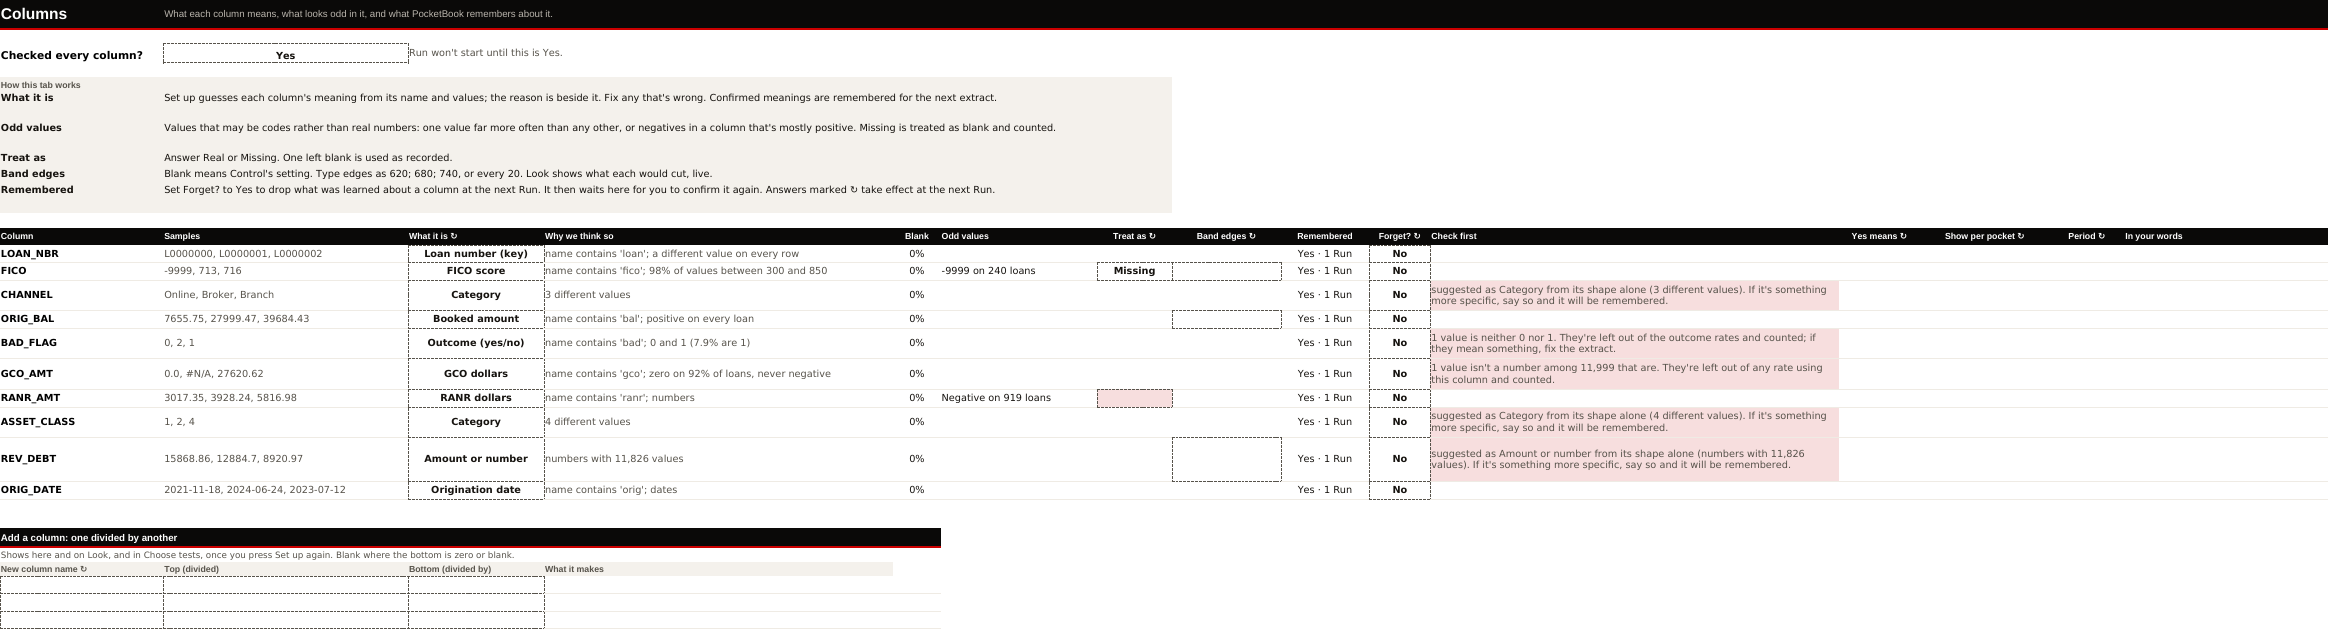
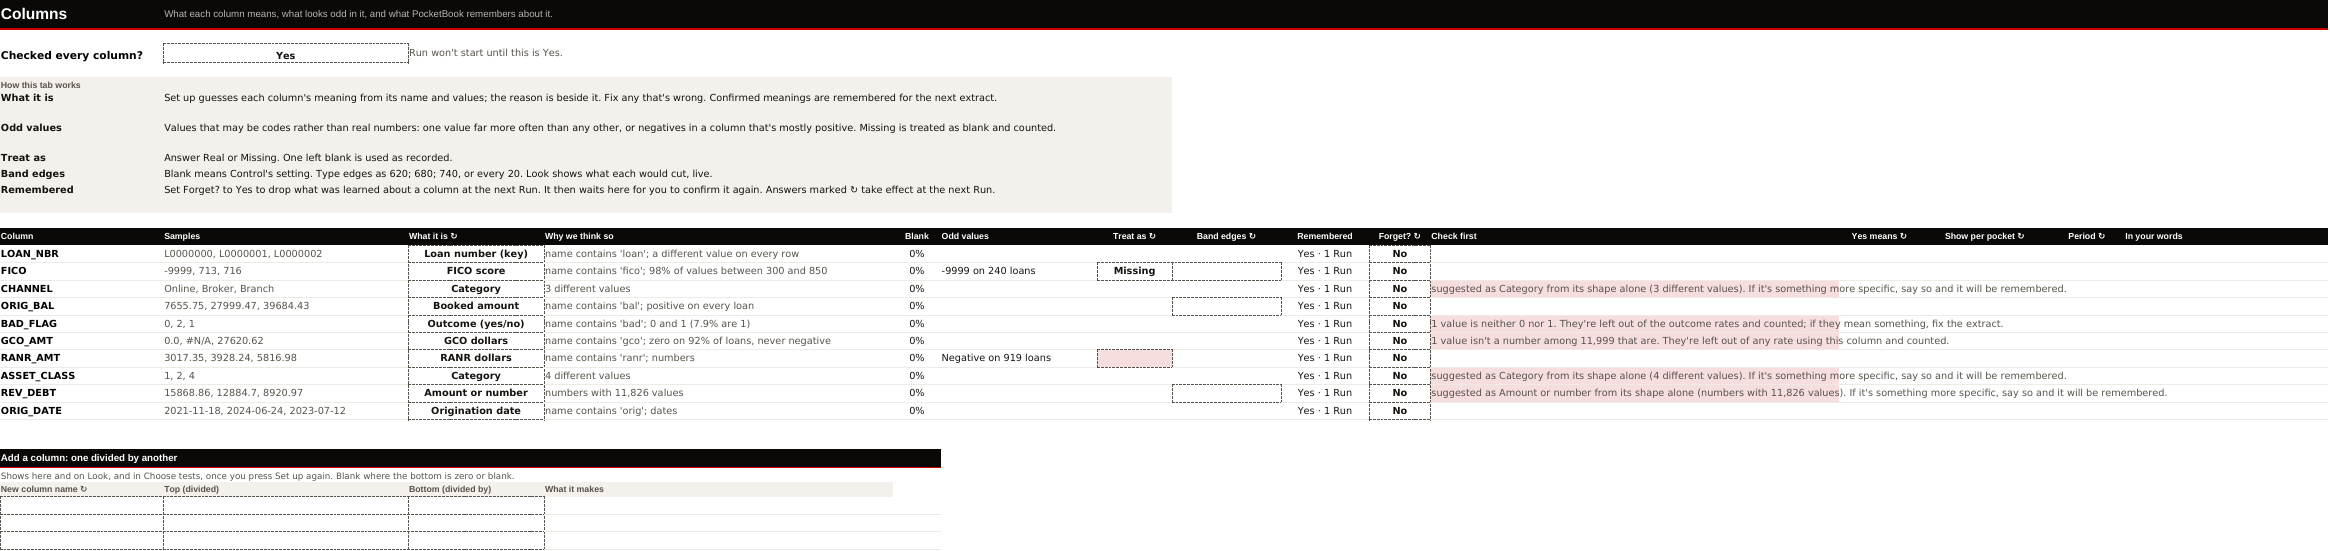
PocketBook widths: Check first stays one line (rule 5, held by a test); three planted bugs repointed
Claude-Session: https://claude.ai/code/session_013ubcYYNQUd93Rpy8MGvQAz

Changed region(s): [[0.0, 0.0, 1.0, 1.0]]

diff --git a/pocketbook/tools/mutation_check.py b/pocketbook/tools/mutation_check.py
@@ -238,8 +238,8 @@ muts = [
   '        elif made is None and False:\n            problems.append', "made_on_control"),
  ("Look loses the new column at Run", B, '        look.refresh(wb, res.table or table, split_col',
   '        look.refresh(wb, table, split_col', "made_on_control or periods_and_meanings"),
- ("new column samples to seventeen figures", B, '            samples = [f"{float(v):.4g}" for v in samples]',
-  '            pass', "made_on_control"),
+ ("new column samples to seventeen figures", B, '        samples = [f"{float(v):.4g}" for v in samples]',
+  '        pass', "made_on_control"),
  ("period on Columns not recorded", B, '                entry["period"] = PERIOD_OPTIONS[str(per).strip()]',
   '                pass', "periods_and_meanings"),
  ("ratio plant missing", "src/pocketbook/synth.py",
@@ -351,7 +351,7 @@ muts = [
   "no_edges_is_said"),
  ("prevalence tie-out off", PV, '        if sum(x[0] for x in out[k].values()) != c.rows:\n            return None',
   '        if False:\n            return None', "does_not_add_up"),
- ("groups not counted on Grids", RS, '    r = _groups(ws, res, views, G, r + 2, left, hid + 4)',
+ ("groups not counted on Grids", RS, '    r = _groups(ws, grp, G, r + 2, left, hid + 4, dw)',
   '    r = r + 2', "count_the_book_by_the_new_columns"),
  ("words run into numbers", RS,
   '                  indent=1 if c in (K_BAND, K_SEG, K_HALF, K_HOLDS) else 0)', '                  indent=0)',
@@ -1194,8 +1194,8 @@ muts = [
   "in idx] for k, v in per_row.items()}, [None] * len(idx))[None].rates[m.name].sums()) for m in measures if "
   "m.is_rate}, min_units,", "grids_only_loans"),
  ("the filter shows the whole grid", RS,
-  '_grid_view(res, views, f"G|{gname}" + WHERE.format(v), g.filtered[v], g, names, rows_, cols_, ms)',
-  '_grid_view(res, views, f"G|{gname}" + WHERE.format(v), g, g, names, rows_, cols_, ms)', "grids_only_loans"),
+  '_grid_view(res, views, f"G|{gname}" + WHERE.format(v), g.filtered[v], g, names, rows_, cols_, ms,',
+  '_grid_view(res, views, f"G|{gname}" + WHERE.format(v), g, g, names, rows_, cols_, ms,', "grids_only_loans"),
  ("the filter dropdown does nothing", RS,
   """ws[VW.replace("$", "")] = f'={G}&IF(OR({F}="",{F}="{ALL_LOANS}"),"",{live.q(WHERE.format(""))}&{F})'""",
   """ws[VW.replace("$", "")] = f'={G}'""", "grids_only_loans"),

diff --git a/pocketbook/src/pocketbook/book.py b/pocketbook/src/pocketbook/book.py
@@ -697,9 +697,9 @@ def _in_use(choices, table, sugg, kept, cat, made) -> set[str] | None:
     return out
 
 
-#: Columns' Check first: its width, and the characters of Calibri 10 a line of it holds
+#: Columns' Check first: its width. It stays one line, as every row of the table does (the redesign's rule 5,
+#: held by test_answer_tabs); the survey's proposal to wrap it waits for the firm (BACKLOG §6d)
 LOOK_WIDTH = 60
-LOOK_CHARS = int(LOOK_WIDTH / 0.85) - 2
 
 
 def _samples_of(col, made) -> list[str]:
@@ -852,14 +852,11 @@ def _columns_tab(ws, wb, table, cols, sugg, facts_of, looks, kept, mem, cat, mad
                 if cell.border.left.style is None:
                     cell.border = thin
                 cell.alignment = Alignment(vertical="center", horizontal="center" if col in (
-                    C_BLANK, C_MEANS, C_TREAT, C_EDGES, C_REMEMBERED, C_FORGET, C_IS, C_SHOW, C_PERIOD) else "left",
-                    wrap_text=True if col == C_LOOK else None)
+                    C_BLANK, C_MEANS, C_TREAT, C_EDGES, C_REMEMBERED, C_FORGET, C_IS, C_SHOW, C_PERIOD) else "left")
                 if col != C_NAME:
                     cell.font = Font(name="Calibri", size=10, bold=cell.font.b,
                                      color=SLATE if col in (C_SAMPLES, C_WHY, C_LOOK) else house.INK_TEXT)
-            # T1: Check first is a question in prose, so it wraps, and its row grows to its lines
-            said = ws.cell(row=row, column=C_LOOK).value
-            ws.row_dimensions[row].height = max(18, 14 * house.lines_at(said, LOOK_CHARS) + 4) if said else 18
+            ws.row_dimensions[row].height = 18
             ws.row_dimensions[row].hidden = hide
         r += max(1, len(asked))
     ws.cell(row=r, column=C_QKEY, value=TABLE_END)

diff --git a/BACKLOG.md b/BACKLOG.md
@@ -2414,8 +2414,13 @@ changed in the code.
   Every width is now worked out per Run from what that Run shows (`house.fit`, `house.two_line_width`), never
   set per bank. Grids: one data width for every column of the four blocks and the groups table (9 to 16), one
   label width for both label columns (12 to 28), headers that wrap with every block's the same height. Split,
-  Pockets, Paid cost kept, Start here, Look, Control and Columns fitted the same way; Columns' *Check first*
-  wraps. `tests/test_widths.py` and ten planted bugs hold it.
+  Pockets, Paid cost kept, Start here, Look, Control and Columns fitted the same way. `tests/test_widths.py` and
+  ten planted bugs hold it.
+  - **Waiting for the firm:** the survey proposed wrapping Columns' *Check first* (prose up to 147 characters,
+    clipped at 60 wide). It was built, then taken back: `test_answer_tabs` holds the redesign's rule 5 on that
+    table (*"Every row is one line and every row in a table is the same height"*), and wrapping breaks it. The
+    call is the firm's: wrap it (and relax the test for that one column), or leave it clipped and readable in
+    the cell.
   - **Decided for the firm, reversible** (each is one place in `results.py`):
     - *G4: a split grid's header is two rows*: the segment merged over its parts, the parts ("high", "low", or
       the category's values) beneath. So the merge is the same for every split grid the Grid dropdown picks,

diff --git a/pocketbook/docs/column-widths-survey-2026-09-29.md b/pocketbook/docs/column-widths-survey-2026-09-29.md
@@ -388,7 +388,7 @@ The same runs were built again and rendered the same way. The after pictures sit
 | `split-sysflag.png` | `after-split-sysflag.png`: the Grid dropdown spans B:D, and the two grids share one width. |
 | `pockets-long.png` | `after-pockets-long.png`: Segment is 29 wide, so "Non-Customer/Online Direct" fits. |
 | `look.png` | `after-look.png`: B fits "50th percentile (P50), the median". |
-| `control.png`, `columns.png` | `after-control.png`, `after-columns.png`: Control's questions stay on one line, and Columns' *Check first* wraps. |
+| `control.png`, `columns.png` | `after-control.png`, `after-columns.png`: Control's questions stay on one line; Columns' Name and Samples fit. *Check first* was not wrapped: an existing test holds the redesign's rule 5 on that table, so the call waits for the firm (`BACKLOG.md` §6d). |
 
 | Tab · column | Before | After (runs A / B / C) |
 |---|---|---|

diff --git a/pocketbook/README.md b/pocketbook/README.md
@@ -239,8 +239,8 @@ After that, the whole routine is:
      beside it. The label columns of **Pockets**, **Paid, cost, kept** and
      **Start here** fit the Run's bands and segments (up to 32); **Look**'s
      label column fits its longest label; **Control** and **Columns** fit
-     their questions, answers, names and samples, and Columns' *Check first*
-     wraps. `tests/test_widths.py` holds each rule.
+     their questions, answers, names and samples. `tests/test_widths.py`
+     holds each rule.
    - **Record** (grey tab; it merges Check and the Log): six sections in three
      pairs, read across. *This Run*: the extract, the loans run, what was run,
      the band edges, the split, the range of origination dates (so a wrong
